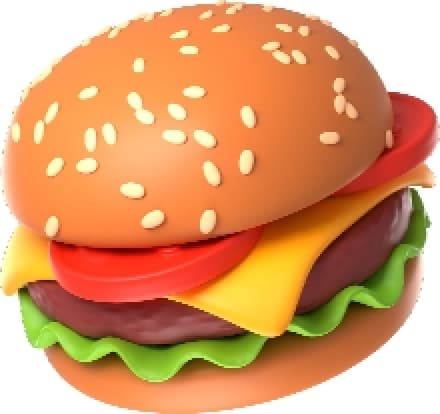
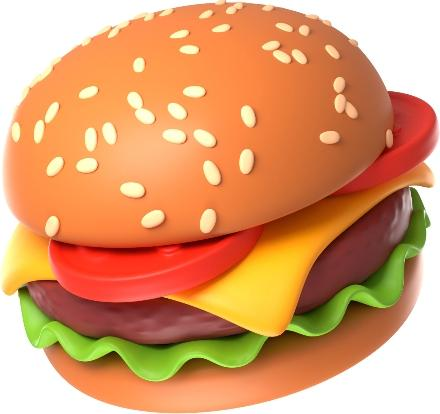
added burger webP images

diff --git a/index.html b/index.html
@@ -449,8 +449,48 @@
           <li class="burgers__component">
             <div class="burgers__element">
               <h3 class="burgers__text">1/4 Pound Cheese</h3>
-
               <picture>
+                <!--webP-->
+                <source
+                  srcset="
+                    ./images/burger-desktop.webp    1x,
+                    ./images/burger-desktop@2x.webp 2x
+                  "
+                  media="(min-width: 1440px)"
+                  width="220"
+                  height="207"
+                />
+
+                <source
+                  srcset="
+                    ./images/burger-tablet.webp    1x,
+                    ./images/burger-tablet@2x.webp 2x
+                  "
+                  media="(min-width: 768px)"
+                  width="154"
+                  height="144"
+                />
+
+                <source
+                  srcset="
+                    ./images/burger-mobile.webp    1x,
+                    ./images/burger-mobile@2x.webp 2x
+                  "
+                  media="(max-width: 319px)"
+                  width="110"
+                  height="103"
+                />
+
+                <source
+                  srcset="
+                    ./images/burger-mobile.webp    1x,
+                    ./images/burger-mobile@2x.webp 2x
+                  "
+                  media="(max-width: 319px)"
+                  width="110"
+                  height="103"
+                />
+                <!--Bitmap-->
                 <source
                   srcset="
                     ./images/burger-desktop.jpeg    1x,
@@ -518,6 +558,47 @@
             <div class="burgers__element">
               <h3 class="burgers__text">Big Burger</h3>
               <picture>
+                <!--webP-->
+                <source
+                  srcset="
+                    ./images/burger-desktop.webp    1x,
+                    ./images/burger-desktop@2x.webp 2x
+                  "
+                  media="(min-width: 1440px)"
+                  width="220"
+                  height="207"
+                />
+
+                <source
+                  srcset="
+                    ./images/burger-tablet.webp    1x,
+                    ./images/burger-tablet@2x.webp 2x
+                  "
+                  media="(min-width: 768px)"
+                  width="154"
+                  height="144"
+                />
+
+                <source
+                  srcset="
+                    ./images/burger-mobile.webp    1x,
+                    ./images/burger-mobile@2x.webp 2x
+                  "
+                  media="(max-width: 319px)"
+                  width="110"
+                  height="103"
+                />
+
+                <source
+                  srcset="
+                    ./images/burger-mobile.webp    1x,
+                    ./images/burger-mobile@2x.webp 2x
+                  "
+                  media="(max-width: 319px)"
+                  width="110"
+                  height="103"
+                />
+                <!--Bitmap-->
                 <source
                   srcset="
                     ./images/burger-desktop.jpeg    1x,
@@ -585,6 +666,47 @@
             <div class="burgers__element">
               <h3 class="burgers__text">Pure Bacon</h3>
               <picture>
+                <!--webP-->
+                <source
+                  srcset="
+                    ./images/burger-desktop.webp    1x,
+                    ./images/burger-desktop@2x.webp 2x
+                  "
+                  media="(min-width: 1440px)"
+                  width="220"
+                  height="207"
+                />
+
+                <source
+                  srcset="
+                    ./images/burger-tablet.webp    1x,
+                    ./images/burger-tablet@2x.webp 2x
+                  "
+                  media="(min-width: 768px)"
+                  width="154"
+                  height="144"
+                />
+
+                <source
+                  srcset="
+                    ./images/burger-mobile.webp    1x,
+                    ./images/burger-mobile@2x.webp 2x
+                  "
+                  media="(max-width: 319px)"
+                  width="110"
+                  height="103"
+                />
+
+                <source
+                  srcset="
+                    ./images/burger-mobile.webp    1x,
+                    ./images/burger-mobile@2x.webp 2x
+                  "
+                  media="(max-width: 319px)"
+                  width="110"
+                  height="103"
+                />
+                <!--Bitmap-->
                 <source
                   srcset="
                     ./images/burger-desktop.jpeg    1x,
@@ -628,7 +750,7 @@
                 <img
                   class="burgers__image"
                   src="./images/burger-mobile.jpeg"
-                  alt="Pure Baco"
+                  alt="Pure Bacon"
                   width="220"
                   loading="lazy"
                 />
